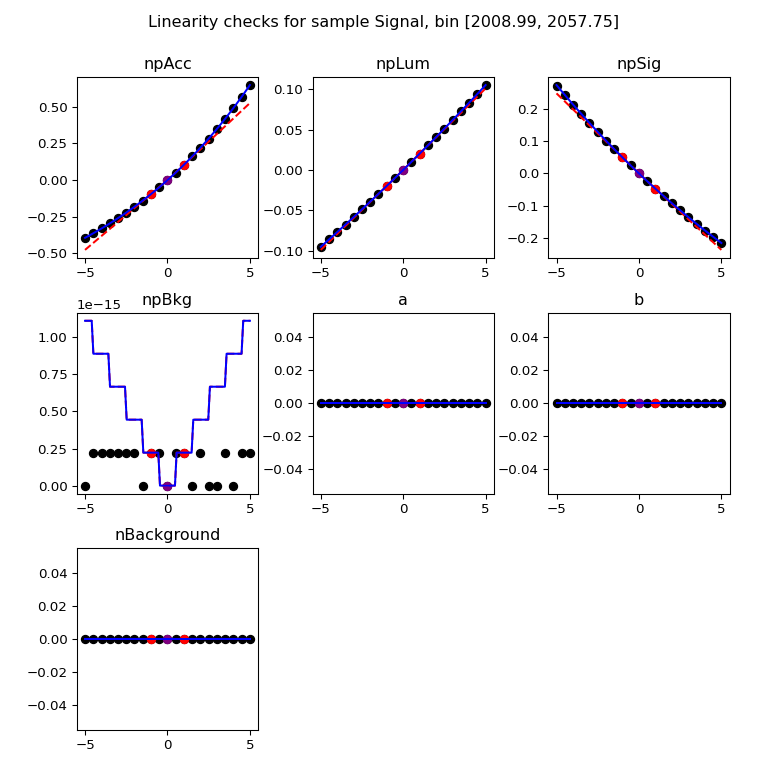
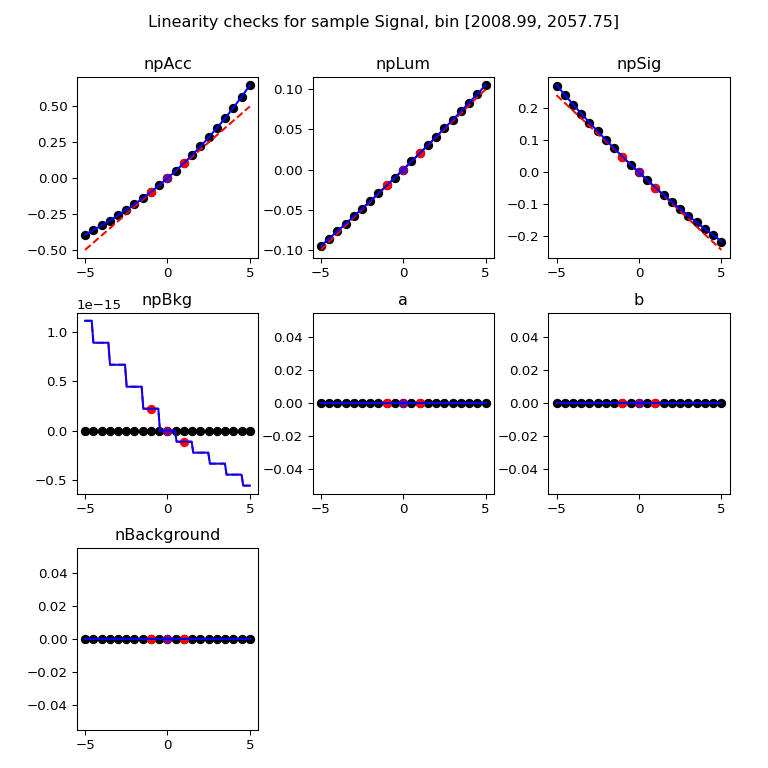
update refs

diff --git a/doc/tutorials/shape_analysis_limit/shape_analysis_limit.rst b/doc/tutorials/shape_analysis_limit/shape_analysis_limit.rst
@@ -61,7 +61,7 @@ To convert the workspace to a `fastprof` JSON file, run
 
   ./convert_ws.py -f inputs/model.root -w modelWS -m mconfig -d obsData \
                   -b 500:5500:100:log --refit xs=0 --binned --setval mX=2000 \
-                  --default-sample Background -o model_mX2000.json >! model_mX2000.log   
+                  --default-sample Background  -l model_mX2000_validation.json -o model_mX2000.json >! model_mX2000.log   
 
 The options are as follows:
 
@@ -80,6 +80,8 @@ The options are as follows:
 * `--setval` sets the value of some model parameters, here `mX`.
 
 * `--default-sample` specifies to which model samples to assign the *unassigned* variations in the event yields -- i.e. the variations that occur when all samples are nomalized to 0. This occurs here for the background modeling uncertainty, so we specify that this should end up in the `Background` sample.
+
+* `-l` (`--validation-data`) specifies that we want to output linearity validation data to the specified file (see below for how this data can be used to validate the model)
 
 * `-o` (`--output-name`) specifies the name of the output file.
 
@@ -116,14 +118,14 @@ To check the impact of NP variations, one can add the `--variations` option to h
 
 .. code-block:: console
 
-  python -i plot.py -m model_mX2000.json -e Signal --setval xs=3 -l --variations 5 \
+  python -i plot.py -m model_mX2000.json -e Signal --setval xs=3 -l --variations 5 -w 18x10 \
          -o model_mX2000_var5.png
 
-Adds a second plot with :math:`\pm 5\sigma` variations corresponding to each NP variations. To get a better look at the effect on the signal, one can zoom into the peak region:
+Adds a second plot panel with :math:`\pm 5\sigma` variations corresponding to each NP variations. To get a better look at the effect on the signal, one can zoom into the peak region:
 
 .. code-block:: console
 
-  python -i plot.py -m model_mX2000.json -e Signal --setval xs=3 --variations 5 \
+  python -i plot.py -m model_mX2000.json -e Signal --setval xs=3 --variations 5 -w 18x10 \
          --x-range 1000,3000 --y-range 0,40 -o model_mX2000_var5_zoom.png
 
 The last command should produce the plot shown below,
@@ -142,23 +144,29 @@ Given that the model seems to behave as expected, one can try a few simple fits.
 
 .. code-block:: console
 
-  ./fit_model.py -m model_mX2000.json --setrange xs:0:10
+  ./fit_model.py -m model_mX2000.json --setrange xs=0:10
 
 where the second argument overrides the range of the POI to :math:`0 \le \text{xs} \le 10` fb. The output is::
 
 
   INFO : setting lower bound of xs to 0
   INFO : setting upper bound of xs to 10
-  
-  == Best-fit: nll = -268.608 @ at parameter values =
+
+  == Best-fit: nll = -216.957 @ at parameter values =
   POIs : xs           =   0.0000
   NPs  : npAcc        =  -0.0000 (unscaled :      -0.0000)
          npLum        =  -0.0000 (unscaled :      -0.0000)
          npSig        =   0.0000 (unscaled :      -0.0000)
          npBkg        =  -0.0004 (unscaled :      -0.0142)
-         a            =   0.0452 (unscaled :      10.8009)
-         b            =  -0.0597 (unscaled :       0.1080)
-         nBackground  =  -0.0001 (unscaled :    9886.9930)
+         a            =   0.0451 (unscaled :      10.8000)
+         b            =  -0.0589 (unscaled :       0.1081)
+         nBackground  =   0.0004 (unscaled :    9886.9951)
+
+  == POI values :
+  xs                   = 5.36345e-06 +/-    0.12364
+
+  == Correlation matrix [xs]:
+  [[1.]]
   
 which can be explained as follows: first, the data clealy favor a near-zero value for the signal, which explains the `xs=0` (see plot above, in fact the best-fut `xs` is slightly negative). Second, you may recall from the beginning of this tutorial that the nominal model parameters are obtained from a fit of the workspace PDF to the data with `xs=0`. In the `fastprof` model, nuisance parameter (NP) values are stored as *pulls* from these nominal values, i.e. as :math:`\theta_{\text{scaled}} = (\theta - \theta_{\text{nominal}})/\sigma_{\theta}`. Therefore the fit to the data performed here should yield `0` for all the NPs by construction. It doesn't turn out to be exactly true due to small differences between the workspace model and the `fastprof` model, but it's close enough. Note that the *unscaled* values corresponding to the parameters as they were in the original model are listed in the printout for comparison.
  
@@ -166,7 +174,7 @@ Another test is to run the fit on an Asimov dataset generated for `xs=1` using
 
 .. code-block:: console
 
-  ./fit_model.py -m model_mX2000.json --asimov xs=1 --setrange xs:0:10
+  ./fit_model.py -m model_mX2000.json --asimov xs=1 --setrange xs=0:10
   
 This yields::
 
@@ -174,15 +182,21 @@ This yields::
   INFO : setting upper bound of xs to 10
   Using Asimov dataset with parameters {'xs': 1.0}
   
-  == Best-fit: nll = -162.15 @ at parameter values =
+  == Best-fit: nll = -119.813 @ at parameter values =
   POIs : xs           =   1.0000
   NPs  : npAcc        =   0.0000 (unscaled :       0.0000)
          npLum        =   0.0000 (unscaled :       0.0000)
          npSig        =  -0.0000 (unscaled :      -0.0000)
-         npBkg        =   0.0000 (unscaled :      -0.0138)
-         a            =  -0.0000 (unscaled :      10.7601)
+         npBkg        =   0.0000 (unscaled :      -0.0139)
+         a            =  -0.0000 (unscaled :      10.7592)
          b            =   0.0000 (unscaled :       0.1102)
-         nBackground  =   0.0000 (unscaled :    9887.0015)
+         nBackground  =   0.0000 (unscaled :    9886.9596)
+  
+  == POI values :
+  xs                   =   0.999997 +/-    0.18471
+  
+  == Correlation matrix [xs]:
+  [[1.]]
 
 which in this case is exactly as expected: since the Asimov dataset is generated from the `fastprof` model, this is just a sanity check.
 
@@ -193,40 +207,46 @@ One can also run a hypothesis test by passing `--hypo` option. An example in dat
 
 .. code-block:: console
 
-  ./fit_model.py -m model_mX2000.json --hypo xs=0.2 --setrange xs:0:10 
+  ./fit_model.py -m model_mX2000.json --hypo xs=0.2 --setrange xs=0:10 
 
 Which gives the output::
 
   INFO : setting lower bound of xs to 0
   INFO : setting upper bound of xs to 10
   
-  == Best-fit: nll = -268.608 @ at parameter values =
+  == Best-fit: nll = -216.957 @ at parameter values =
   POIs : xs           =   0.0000
   NPs  : npAcc        =  -0.0000 (unscaled :      -0.0000)
          npLum        =  -0.0000 (unscaled :      -0.0000)
          npSig        =   0.0000 (unscaled :      -0.0000)
          npBkg        =  -0.0004 (unscaled :      -0.0142)
-         a            =   0.0452 (unscaled :      10.8009)
-         b            =  -0.0597 (unscaled :       0.1080)
-         nBackground  =  -0.0001 (unscaled :    9886.9930)
+         a            =   0.0451 (unscaled :      10.8000)
+         b            =  -0.0589 (unscaled :       0.1081)
+         nBackground  =   0.0004 (unscaled :    9886.9951)
   
-  == Profile-likelihood ratio tmu = 4.24233 for hypothesis {'xs': 0.2}
+  == POI values :
+  xs                   = 5.36345e-06 +/-    0.12364
+  
+  == Correlation matrix [xs]:
+  [[1.]]
+  
+  == Profile-likelihood ratio tmu = 4.24341 for hypothesis {'xs': 0.2}
   -- Profiled NP values :
   POIs : xs           =   0.2000
-  NPs  : npAcc        =  -0.2864 (unscaled :      -0.2864)
+  NPs  : npAcc        =  -0.2865 (unscaled :      -0.2865)
          npLum        =  -0.0572 (unscaled :      -0.0572)
          npSig        =   0.1314 (unscaled :       0.1314)
          npBkg        =  -0.0157 (unscaled :      -0.0295)
-         a            =   0.7121 (unscaled :      11.4038)
-         b            =  -0.6426 (unscaled :       0.0869)
-         nBackground  =  -0.0875 (unscaled :    9878.3040)
+         a            =   0.7124 (unscaled :      11.4030)
+         b            =  -0.6407 (unscaled :       0.0870)
+         nBackground  =  -0.0871 (unscaled :    9878.3038)
   
   == Computing the q~mu test statistic
   best-fit xs =  5.36345e-06
-  tmu         =  4.24233
-  q~mu        =  4.24233
-  pv          =  0.0118538
-  cls         =  0.0677421
+  tmu         =  4.24341
+  q~mu        =  4.24341
+  pv          =  0.0118385
+  cls         =  0.0677161
 
 The first block is the fit with free `xs` that was already shown above. The second block shows the fit with fixed `xs=0.2` fb, which as expected shows some pulls in the NP -- in particular downward pulls in `npAcc`, which is associated with a 10% uncertainty and therefore is able to mitigate a bit the discrepancy between the `xs=0.2` hypothesis and the `xs=0` value preferred by data. The resulting value of :math:`t_{\mu} = -2\log L(\text{xs}=0.2)/L(\text{best fit})` is about 4, which in the asymptotic approximation corresponds to a p-value (a.k.a. :math:`CL_{s+b}`) of about 1%, and a :math:`CL_s` exclusion at the 93% CL.
 
@@ -272,7 +292,7 @@ By default this considers 17 hypotheses (the expected 95% CL limit, plus 8 hypot
 
   ./check_model.py -m model_mX2000.json -f wsfits_mX2000.json
 
-which produced the following output::
+which produces the following output::
 
   Using dataset stored in file model_mX2000.json.
   | xs              | pv              | pv (fast)       | cls             | cls (fast)      | clb             | clb (fast)      
